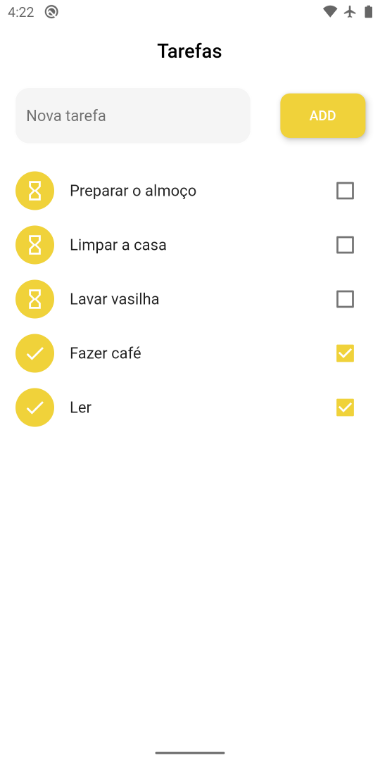
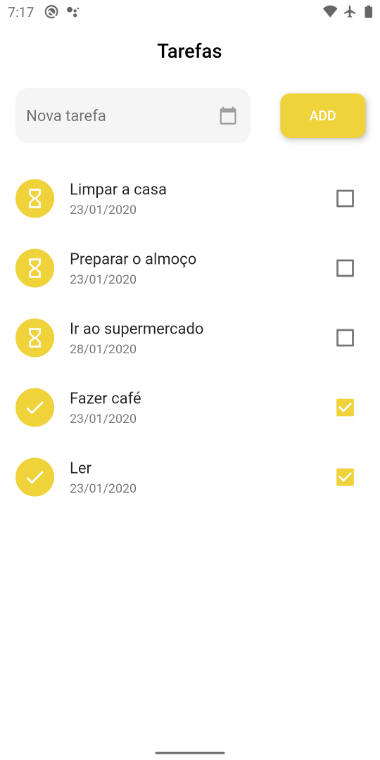
adicionando data nas tarefas

diff --git a/lib/main.dart b/lib/main.dart
@@ -5,7 +5,7 @@ import 'package:flutter/material.dart';
 import 'package:path_provider/path_provider.dart';
 import 'package:flutter/services.dart';
 
-
+const yellow = Color.fromRGBO(240, 210, 58, 1);
 
 void main() {
   runApp(
@@ -13,7 +13,14 @@ void main() {
       home: Home(),
       debugShowCheckedModeBanner: false,
       theme: ThemeData(
-        accentColor: Color.fromRGBO(240, 210, 58, 1),
+        splashColor: Colors.white,
+        primaryColor: Colors.white,
+        primarySwatch: Colors.grey,
+        accentColor: yellow,
+        cursorColor: yellow,
+        brightness: Brightness.light,
+        textSelectionColor: yellow,
+        textSelectionHandleColor: yellow,
       ),
     )
   );
@@ -27,7 +34,7 @@ class Home extends StatefulWidget {
 class _HomeState extends State<Home> {
 
   List _toDoList = [];
-
+  String _dateTime;
   Map<String, dynamic> _lastRemoved;
   int _lastRemovedPos;
 
@@ -42,6 +49,8 @@ class _HomeState extends State<Home> {
       systemNavigationBarColor: Colors.transparent,
       systemNavigationBarIconBrightness: Brightness.dark));
       
+    _dateTime = getDate(DateTime.now());  
+    
     _readData().then((data) {
       setState(() {
         _toDoList = json.decode(data);
@@ -49,25 +58,44 @@ class _HomeState extends State<Home> {
     });
   }
 
+  String getDate(DateTime date) {
+    return date.toString()
+               .substring(0, 10)
+               .replaceAll("-", "");
+  }
+
   void _addToDo() {
-    if(_toDoController.text.trim().isEmpty) {
-      return;
-    }
-    else {
+    if(_toDoController.text.trim().isNotEmpty) {
       setState(() {
-      Map<String, dynamic> newToDo = {};
-      newToDo["title"] = _toDoController.text.trim();
-      _toDoController.text = "";
-      newToDo["ok"] = false;
-      _toDoList.add(newToDo); 
-      _saveData();
+        Map<String, dynamic> newToDo = {};
+        newToDo["title"] = _toDoController.text.trim();
+        _toDoController.text = "";
+        newToDo["ok"] = false;
+        newToDo["dateComp"] = _dateTime;
+        newToDo["date"] = "${_dateTime.substring(6,8)}/${_dateTime.substring(4,6)}/${_dateTime.substring(0,4)}";
+        _dateTime = getDate(DateTime.now());
+        _toDoList.add(newToDo); 
+        _refresh(0);
+        _saveData();
       });
     }
   }
   
-  Future<Null> _refresh() async {
-    await Future.delayed(Duration(seconds: 1));
+  Future<Null> _refresh(int sec) async {
+    await Future.delayed(Duration(seconds: sec));
     setState(() {
+      _toDoList.sort((a, b) {
+        if(int.parse(a["dateComp"]) > int.parse(b["dateComp"])) {
+          return 1;
+        }
+        else if(int.parse(a["dateComp"]) < int.parse(b["dateComp"])){
+          return -1;
+        }
+        else {
+          return 0;
+        }
+      });
+
       _toDoList.sort((a, b) {
         if(a["ok"] && !b["ok"]) {
           return 1;
@@ -97,7 +125,7 @@ class _HomeState extends State<Home> {
         centerTitle: true,
       ),
       body: RefreshIndicator(
-        onRefresh: _refresh,
+        onRefresh: () => _refresh(1),
         child: Column(
           children: <Widget>[
             Container(
@@ -107,7 +135,8 @@ class _HomeState extends State<Home> {
                   Expanded(
                     child: Padding(
                       padding: EdgeInsets.only(right: 30),
-                      child: TextField(
+                      child: TextField( 
+                        
                         autocorrect: false,
                         //autofocus: true,
                         style: TextStyle(
@@ -115,18 +144,41 @@ class _HomeState extends State<Home> {
                         ),
                         controller: _toDoController,
                         decoration: InputDecoration(
+                          suffixIcon: InkWell(
+                                excludeFromSemantics: false,
+                                borderRadius: BorderRadius.circular(30),
+                                onTap: () => 
+                                  showDatePicker( 
+                                    context: context,
+                                    initialDate: DateTime.now(),
+                                    firstDate: DateTime(2018),
+                                    lastDate: DateTime(2050)
+                                  ).then((date) {
+                                  setState(() {
+                                    _dateTime = getDate(date);
+                                  });
+                                }),
+                                child: Icon(
+                                  Icons.calendar_today, 
+                                  color: Colors.grey, 
+                                  size: 20,),),
                           hasFloatingPlaceholder: false,
                           labelText: "Nova tarefa",
-                          border: OutlineInputBorder(borderRadius: BorderRadius.circular(100)),
                           filled: true,
-                          enabledBorder: OutlineInputBorder(borderSide: BorderSide(color: Colors.white), borderRadius: BorderRadius.circular(15)),
-                          focusedBorder: OutlineInputBorder(borderSide: BorderSide(color: Colors.white), borderRadius: BorderRadius.circular(15)),
+                          border: OutlineInputBorder(
+                            borderRadius: BorderRadius.circular(100)),
+                          enabledBorder: OutlineInputBorder(
+                            borderSide: BorderSide(color: Colors.white),
+                            borderRadius: BorderRadius.circular(15)),
+                          focusedBorder: OutlineInputBorder(
+                            borderSide: BorderSide(color: Colors.white), 
+                            borderRadius: BorderRadius.circular(15)),
                         ),
                       ),
                     ),
                   ),
                   RaisedButton(
-                    color: Color.fromRGBO(240, 210, 58, 1),
+                    color: yellow,
                     elevation: 5,
                     padding: EdgeInsets.fromLTRB(0, 15, 0, 15),
                     shape: RoundedRectangleBorder(
@@ -163,18 +215,19 @@ class _HomeState extends State<Home> {
       ),
       direction: DismissDirection.startToEnd,
       child: CheckboxListTile(
-        activeColor: Color.fromRGBO(240, 210, 58, 1),
-
+        activeColor: yellow,
         title: Text(_toDoList[index]["title"]),
         value: _toDoList[index]["ok"],
+        subtitle: Text(_toDoList[index]["date"], style: TextStyle(fontSize: 13),),
         secondary: CircleAvatar(
-          backgroundColor: Color.fromRGBO(240, 210, 58, 1),
+          backgroundColor: yellow,
           foregroundColor: Colors.white,
           child: Icon(_toDoList[index]["ok"] ? Icons.check : Icons.hourglass_empty),
         ),
         onChanged: (check) {
           setState(() {
             _toDoList[index]["ok"] = check;
+            _refresh(1);
             _saveData();
           });
         },
@@ -187,7 +240,10 @@ class _HomeState extends State<Home> {
           _saveData();
 
           final snack = SnackBar(
-            content: Text("Tarefa \"${_lastRemoved["title"]}\" removida!"),
+            backgroundColor: Color.fromRGBO(245, 245, 245, 1),
+            content: Text(
+              "Tarefa \"${_lastRemoved["title"]}\" removida!", 
+              style: TextStyle(color: Color.fromRGBO(112, 112, 112, 1)),),
             action: SnackBarAction(
               label: "Desfazer",
               onPressed: () {
